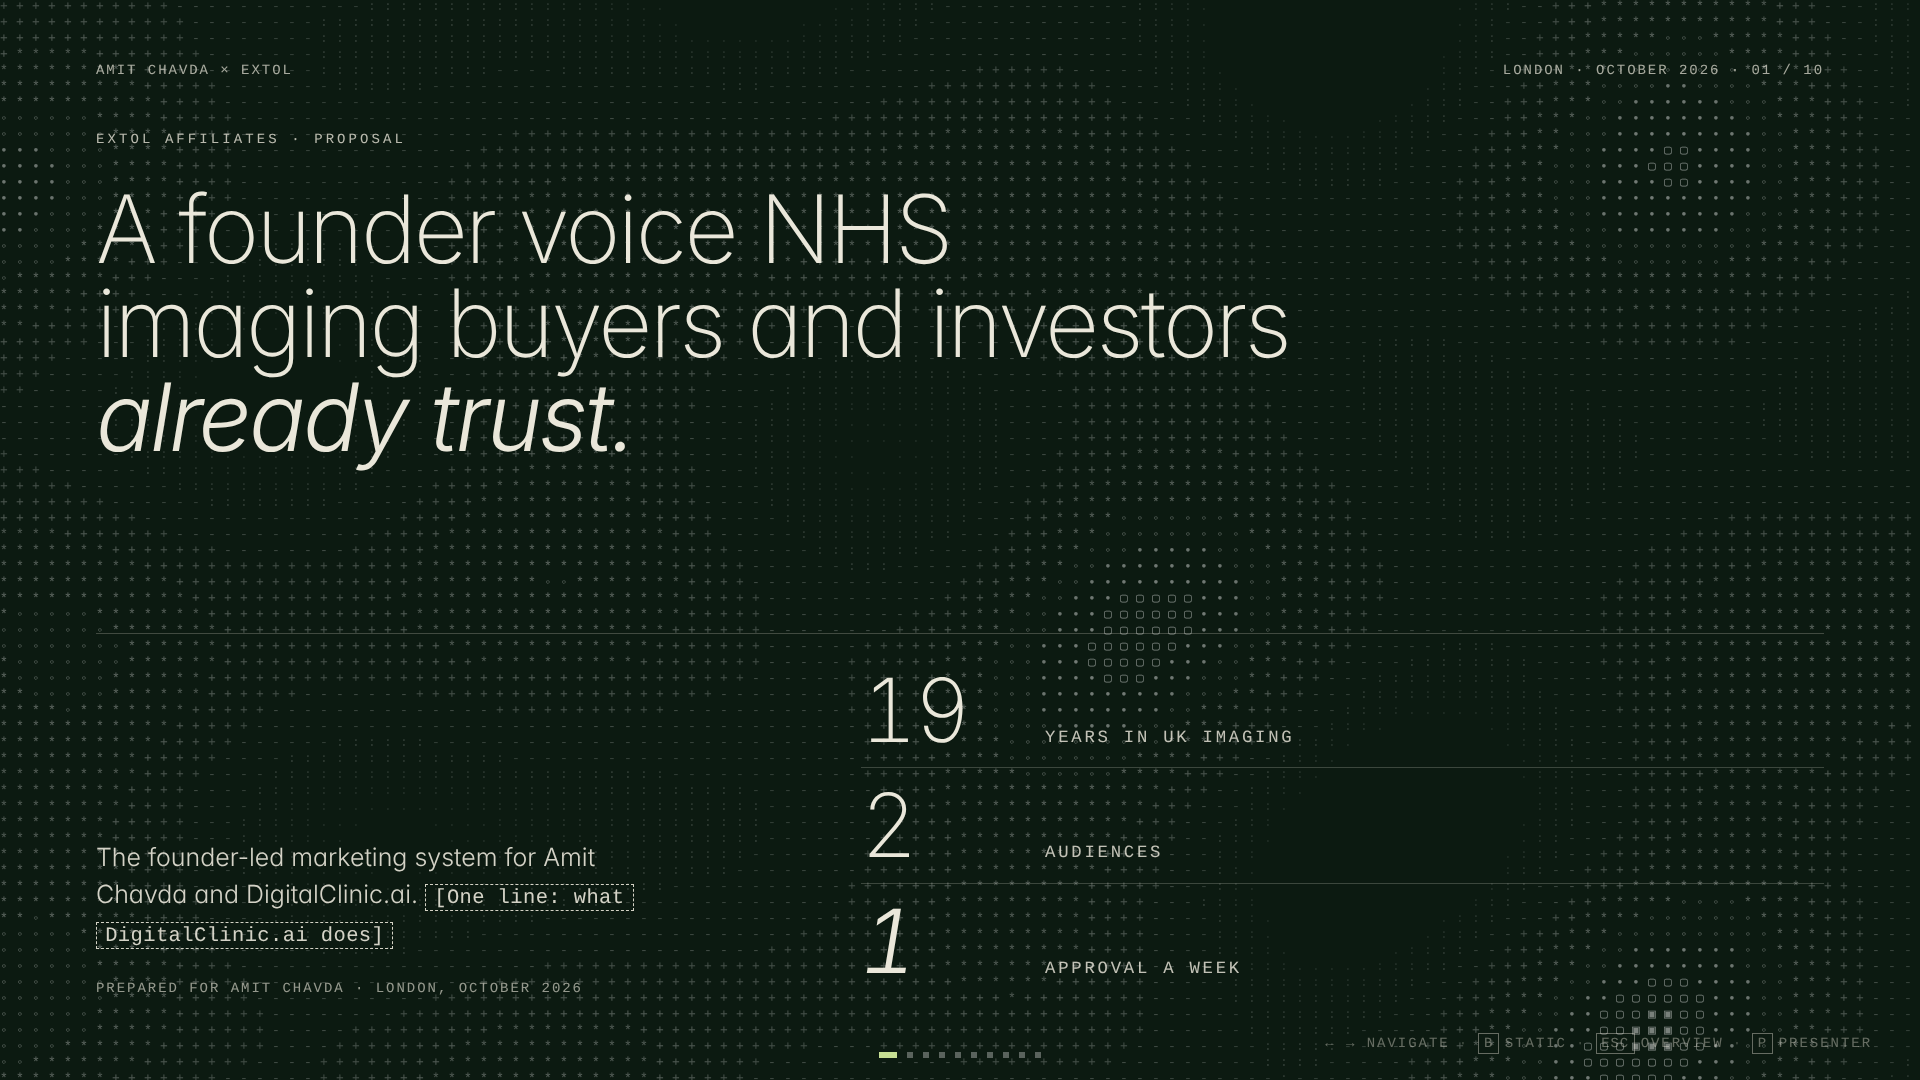
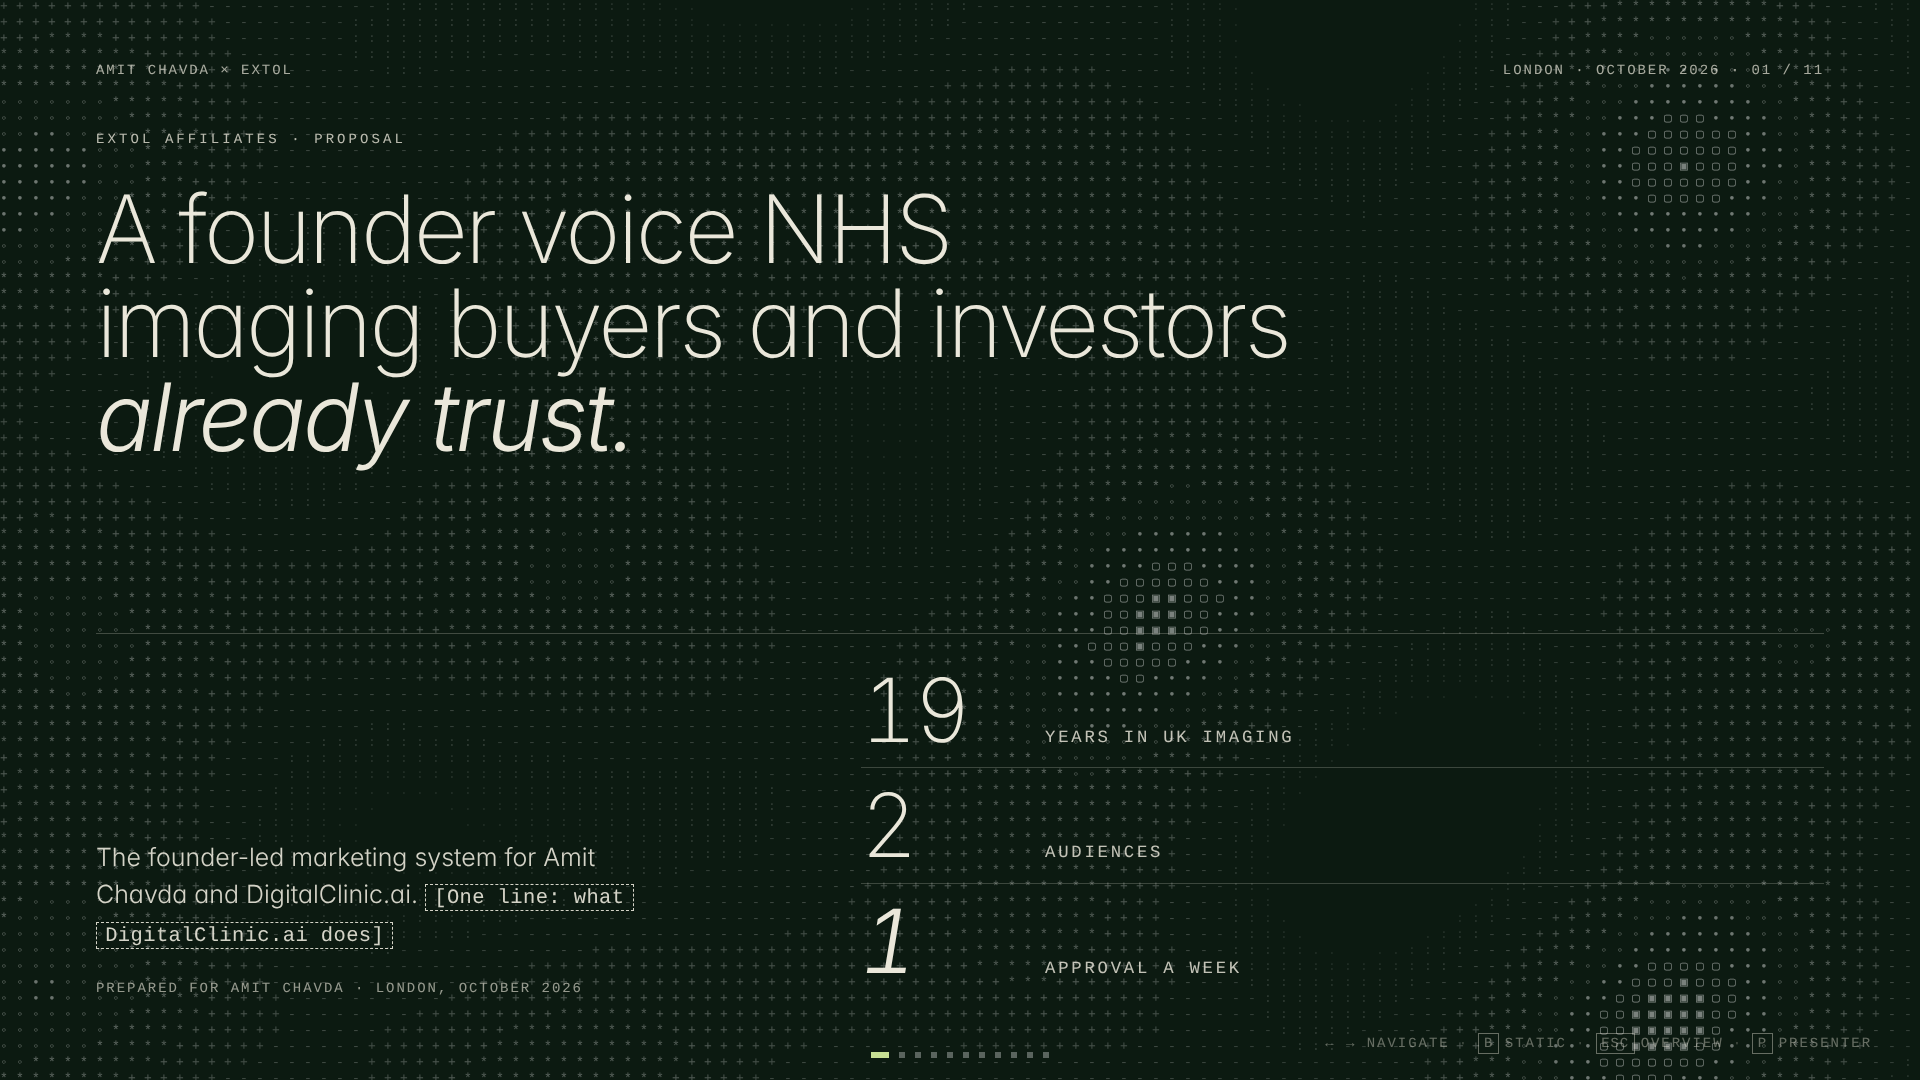
Amit deck v3: Guizang 'Before our view' six-question slide 2 (11 slides)
Claude-Session: https://claude.ai/code/session_011gzJRJx7rjtmFFXoF1gWMM

diff --git a/presentations/amit-chavda/guizang/index.html b/presentations/amit-chavda/guizang/index.html
@@ -1284,6 +1284,18 @@
   .q .qk{display:block;font-family:var(--sans);font-weight:500;font-size:max(18px,1.1vw);line-height:1.25;color:var(--accent);margin-bottom:.5vh}
   .q .qv{display:block;font-family:var(--sans);font-weight:400;font-size:max(16px,.95vw);line-height:1.45;color:var(--text-secondary)}
 
+  /* S20 before-our-view ledger: noticed (muted, small) -> question (emphasis) */
+  .bv-sub{font-family:var(--sans);font-weight:400;font-size:max(18px,1.1vw);line-height:1.45;color:var(--text-secondary);max-width:72ch;margin-top:18px}
+  .bv-ledger{display:flex;flex-direction:column;min-height:0;border-top:2px solid var(--fern)}
+  .bv-head,.bv-ledger .ledger-row{display:grid;grid-template-columns:96px minmax(0,1fr);column-gap:32px}
+  .bv-pair,.bv-ledger .ledger-label{display:grid;grid-template-columns:minmax(0,5fr) minmax(0,9fr);column-gap:32px;align-items:center}
+  .bv-head{padding:10px 0;border-bottom:1px solid var(--border-strong);font-family:var(--mono);font-size:14px;font-weight:600;letter-spacing:.14em;text-transform:uppercase;color:var(--text-helper)}
+  .bv-ledger .ledger-row{flex:1;align-items:center;padding:12px 0;border-bottom:1px solid var(--border-subtle);min-height:0}
+  .bv-ledger .ledger-row:last-child{border-bottom:none}
+  .bv-ledger .ledger-num{font-family:var(--sans);font-weight:200;font-size:min(2.6vw,4.6vh);line-height:1;letter-spacing:-.03em;color:var(--fern);font-feature-settings:"tnum"}
+  .bv-noticed{font-family:var(--sans);font-weight:400;font-size:max(16px,.9vw);line-height:1.4;color:var(--text-helper)}
+  .bv-q{font-family:var(--sans);font-weight:500;font-size:min(1.45vw,2.6vh);line-height:1.3;letter-spacing:-.01em;color:var(--text-primary)}
+
   /* Extol certified theme: dark slides on field-top, dark cards on field-mid, fern accents on light */
   .slide.dark .canvas-card,.split-half > .half.b-ink,.stack-block.b-ink{background:var(--accent);color:var(--accent-on)}
   .slide.dark .sub-card{background:var(--card-dark)}
@@ -1363,7 +1375,7 @@
     <canvas class="ascii-bg" aria-hidden="true"></canvas>
     <div class="chrome-min">
       <div class="l">Amit Chavda × Extol</div>
-      <div class="r">London · October 2026 · 01 / 10</div>
+      <div class="r">London · October 2026 · 01 / 11</div>
     </div>
     <div style="flex:1;padding:0;display:grid;grid-template-rows:auto auto 1fr;gap:3vh;min-height:0">
       <div data-anim="kicker" class="t-meta" style="color:rgba(var(--accent-on-rgb),.78);letter-spacing:.22em">Extol Affiliates · Proposal</div>
@@ -1383,12 +1395,57 @@
   </div>
 </section>
 
-<!-- 02 · Why Amit · S11 Horizontal Timeline -->
+<!-- 02 · Before our view · S20 Stacked KPI Ledger (six hairline rows: number / what we noticed / the question; icons omitted so the questions carry the slide) -->
+<section class="slide light" data-layout="S20" data-animate="stacked-ledger" data-slide-id="before-our-view">
+  <div class="canvas-card">
+    <div class="chrome-min">
+      <div class="l">Before our view · Questions first</div>
+      <div class="r">02 / 11</div>
+    </div>
+    <div style="flex:1;padding:0;display:grid;grid-template-rows:auto 1fr auto;gap:28px;min-height:0">
+      <div data-anim="line" style="display:flex;flex-direction:column;gap:14px">
+        <div class="t-cat">Before our view</div>
+        <h2 style="font-family:var(--sans),var(--sans-zh);font-weight:200;font-size:min(3.2vw,5.7vh);line-height:1.04;letter-spacing:-.03em;max-width:40ch">What we think is going on. Tell us where we're wrong.</h2>
+        <p class="bv-sub">Six questions, each from something we noticed. Your answers decide what we build.</p>
+      </div>
+      <div class="stacked-ledger bv-ledger" data-anim="ledger">
+        <div class="bv-head" aria-hidden="true"><span>No.</span><span class="bv-pair"><span>What we noticed</span><span>The question</span></span></div>
+        <div class="ledger-row">
+          <div class="ledger-num">01</div>
+          <div class="ledger-label"><span class="bv-noticed">You sell AI to the NHS by day at Radiobotics and are building DigitalClinic.ai alongside it.</span><span class="bv-q">Where does Radiobotics end and DigitalClinic.ai begin, and who has to agree where that line sits?</span></div>
+        </div>
+        <div class="ledger-row">
+          <div class="ledger-num">02</div>
+          <div class="ledger-label"><span class="bv-noticed">You have been the radiographer, the commissioner and the vendor.</span><span class="bv-q">When an NHS imaging lead hasn't met you, why would they pilot a startup over a vendor they already buy from?</span></div>
+        </div>
+        <div class="ledger-row">
+          <div class="ledger-num">03</div>
+          <div class="ledger-label"><span class="bv-noticed">You now help shape AXREM's view on AI in imaging.</span><span class="bv-q">Which of your views can you say in public, and which belong to AXREM?</span></div>
+        </div>
+        <div class="ledger-row">
+          <div class="ledger-num">04</div>
+          <div class="ledger-label"><span class="bv-noticed">An NHS AI purchase passes radiology, IT, procurement and finance.</span><span class="bv-q">Who says yes to a DigitalClinic.ai pilot, and who has the problem first?</span></div>
+        </div>
+        <div class="ledger-row">
+          <div class="ledger-num">05</div>
+          <div class="ledger-label"><span class="bv-noticed">Investors back traction, not CVs.</span><span class="bv-q">What does an investor need to see before the first cheque: pilots, letters of intent, or an audience that listens?</span></div>
+        </div>
+        <div class="ledger-row">
+          <div class="ledger-num">06</div>
+          <div class="ledger-label"><span class="bv-noticed">Followers don't pay. Pilots and cheques do.</span><span class="bv-q">What is one NHS pilot worth to you, and how many conversations does it take to land one?</span></div>
+        </div>
+      </div>
+      <div class="src-line">Discussion document · Public work history (LinkedIn via Apollo), Oct 2026</div>
+    </div>
+  </div>
+</section>
+
+<!-- 03 · Why Amit · S11 Horizontal Timeline -->
 <section class="slide light" data-layout="S11" data-animate="timeline-walk" data-slide-id="why-amit">
   <div class="canvas-card">
     <div class="chrome-min">
       <div class="l">Why Amit · Situation</div>
-      <div class="r">02 / 10</div>
+      <div class="r">03 / 11</div>
     </div>
     <div style="flex:1;padding:0;display:grid;grid-template-rows:auto 1fr auto;gap:3vh;min-height:0">
       <div data-anim="line" style="display:flex;flex-direction:column;gap:1.6vh">
@@ -1423,12 +1480,12 @@
   </div>
 </section>
 
-<!-- 03 · Same room · S05 Three Layers (top-left title, three blocks: who / shared gap / approach) -->
+<!-- 04 · Same room · S05 Three Layers (top-left title, three blocks: who / shared gap / approach) -->
 <section class="slide light" data-layout="S05" data-animate="stack-build" data-slide-id="same-room">
   <div class="canvas-card">
     <div class="chrome-min">
       <div class="l">Same room · Complication</div>
-      <div class="r">03 / 10</div>
+      <div class="r">04 / 11</div>
     </div>
     <div style="flex:1;padding:0;display:grid;grid-template-rows:auto 1fr auto;gap:32px;min-height:0">
       <div data-anim="line" style="display:flex;flex-direction:column;gap:1.6vh">
@@ -1467,12 +1524,12 @@
   </div>
 </section>
 
-<!-- 04 · Goal · S08 Duo Compare -->
+<!-- 05 · Goal · S08 Duo Compare -->
 <section class="slide light" data-layout="S08" data-animate="duo-mirror" data-slide-id="goal">
   <div class="canvas-card">
     <div class="chrome-min">
       <div class="l">Goal · Resolution</div>
-      <div class="r">04 / 10</div>
+      <div class="r">05 / 11</div>
     </div>
     <div style="flex:1;padding:0;display:grid;grid-template-rows:auto 1fr auto;gap:5vh;min-height:0">
       <div data-anim="line" style="display:flex;flex-direction:column;gap:1.6vh">
@@ -1502,12 +1559,12 @@
   </div>
 </section>
 
-<!-- 05 · How it works · S14 Loop Form (left steps, right geometric loop; labels in HTML) -->
+<!-- 06 · How it works · S14 Loop Form (left steps, right geometric loop; labels in HTML) -->
 <section class="slide dark" data-layout="S14" data-animate="loop-form" data-slide-id="how-it-works">
   <div class="canvas-card">
     <div class="chrome-min">
       <div class="l">How it works · Weekly loop</div>
-      <div class="r">05 / 10</div>
+      <div class="r">06 / 11</div>
     </div>
     <div style="flex:1;padding:0;display:grid;grid-template-rows:auto 1fr auto;gap:3.4vh;min-height:0">
       <div data-anim="line" style="display:flex;flex-direction:column;gap:1.6vh">
@@ -1554,12 +1611,12 @@
   </div>
 </section>
 
-<!-- 06 · Proof · S19 Four Cards (top rule + four equal columns, one sourced result each) -->
+<!-- 07 · Proof · S19 Four Cards (top rule + four equal columns, one sourced result each) -->
 <section class="slide light" data-layout="S19" data-animate="four-cards" data-slide-id="proof">
   <div class="canvas-card">
     <div class="chrome-min">
       <div class="l">Proof · Running today</div>
-      <div class="r">06 / 10</div>
+      <div class="r">07 / 11</div>
     </div>
     <div style="flex:1;padding:0;display:grid;grid-template-rows:auto 1fr auto;gap:5vh;min-height:0">
       <div data-anim="line" style="display:flex;flex-direction:column;gap:2.4vh">
@@ -1611,12 +1668,12 @@
   </div>
 </section>
 
-<!-- 07 · Tools · S04 Six Cells (five tools + one channel cell) -->
+<!-- 08 · Tools · S04 Six Cells (five tools + one channel cell) -->
 <section class="slide light" data-layout="S04" data-animate="grid-reveal" data-slide-id="tools">
   <div class="canvas-card">
     <div class="chrome-min">
       <div class="l">Tools · The stack</div>
-      <div class="r">07 / 10</div>
+      <div class="r">08 / 11</div>
     </div>
     <div style="flex:1;padding:0;display:grid;grid-template-rows:auto 1fr;gap:5vh;min-height:0">
       <div data-anim="line" style="display:flex;flex-direction:column;gap:1.6vh">
@@ -1635,12 +1692,12 @@
   </div>
 </section>
 
-<!-- 08 · Example · S16 Multi-card Brief (3 x 2 micro cards, one accent) -->
+<!-- 09 · Example · S16 Multi-card Brief (3 x 2 micro cards, one accent) -->
 <section class="slide light" data-layout="S16" data-animate="field-notes" data-slide-id="example">
   <div class="canvas-card">
     <div class="chrome-min">
       <div class="l">Example · Placeholder</div>
-      <div class="r">08 / 10</div>
+      <div class="r">09 / 11</div>
     </div>
     <div style="flex:1;padding:0;display:grid;grid-template-rows:auto 1fr;gap:5vh;min-height:0">
       <div data-anim="line" style="display:flex;flex-direction:column;gap:1.6vh">
@@ -1683,12 +1740,12 @@
   </div>
 </section>
 
-<!-- 09 · Control and first outcome · S13 Three Forces (left ink hero + right three cards) -->
+<!-- 10 · Control and first outcome · S13 Three Forces (left ink hero + right three cards) -->
 <section class="slide light" data-layout="S13" data-animate="three-forces" data-slide-id="control">
   <div class="canvas-card">
     <div class="chrome-min">
       <div class="l">Control · First outcome</div>
-      <div class="r">09 / 10</div>
+      <div class="r">10 / 11</div>
     </div>
     <div data-anim="up" style="flex:1;padding:0;display:grid;grid-template-columns:5fr 11fr;gap:1.4vw;min-height:0">
       <div class="card-ink" style="padding:4vh 2.2vw 3.6vh;display:flex;flex-direction:column;justify-content:space-between;gap:3vh;min-height:0">
@@ -1736,14 +1793,14 @@
   </div>
 </section>
 
-<!-- 10 · Next · S10 Split Closing (left statement + pricing shape, right six questions) -->
+<!-- 11 · Next · S10 Split Closing (left statement + pricing shape, right six questions) -->
 <section class="slide split" data-layout="S10" data-animate="split-statement" data-slide-id="next">
   <div class="canvas-card">
     <div class="split-half">
       <div class="half b-accent nav-lift" style="padding:5.6vh 3.6vw 4.4vh;justify-content:space-between;position:relative;overflow:hidden;gap:3vh">
         <canvas class="ascii-bg" aria-hidden="true"></canvas>
         <div class="chrome-min" style="margin-bottom:0;position:relative;z-index:1">
-          <div class="l">10 / 10</div>
+          <div class="l">11 / 11</div>
           <div class="r">Next</div>
         </div>
         <div data-anim="manifesto" style="display:flex;flex-direction:column;gap:2vh;position:relative;z-index:1">
@@ -1795,7 +1852,19 @@ const SPEAKER_NOTES = [
       'Three numbers frame the deck: 19 years in UK imaging, 2 audiences, 1 approval a week.',
       'Today we want answers to six scoping questions so Extol can price a four-week pilot.'
     ],
-    transition: 'Start with why Amit is the right voice: the career he already has.'
+    transition: 'Before our view, ask: six questions, each from something we noticed.'
+  },
+  {
+    id: 'before-our-view', title: 'What we think is going on. Tell us where we\'re wrong.',
+    purpose: 'Ask before presenting: six questions, each from something we noticed, that re-weight everything after',
+    talk: [
+      'Ask, don\'t present. Read the six questions, then stop and let Amit talk.',
+      'Get Amit talking for 5-10 minutes before slide 3; his answers re-weight everything after.',
+      'Q01 and Q03 are the deal-breakers: if he can\'t separate Radiobotics, AXREM and DigitalClinic.ai publicly, the founder-voice plan changes.',
+      'Frame it: six questions, each from something we noticed. His answers decide what we build.',
+      'Q06 sets outcome 01\'s number: what one NHS pilot is worth and how many conversations it takes.'
+    ],
+    transition: 'With his answers in hand, start with why Amit is the right voice: the career he already has.'
   },
   {
     id: 'why-amit', title: 'Amit has worked every side of UK imaging',
